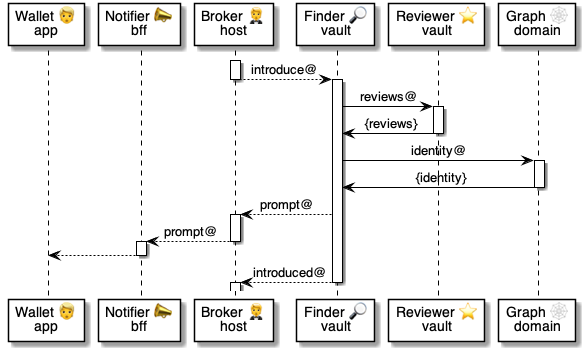
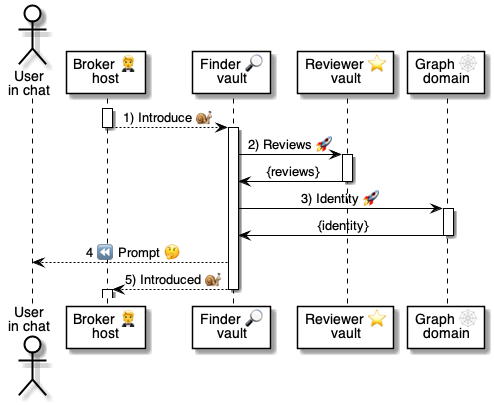
.

Changed region(s): [[0.0, 0.0, 1.0, 0.9972]]

diff --git a/4 ⚙ Solution/20 🧑🦰 UI/13 🤔 Prompts/12 ⏳ TEMP prompt.md b/4 ⚙ Solution/20 🧑🦰 UI/13 🤔 Prompts/12 ⏳ TEMP prompt.md
@@ -2,60 +2,92 @@
 
 > Part of [Non-blocking status prompts 🤔](<10 Non-blocking status.md>)
 
-
-## About
-
-- this is an info [Prompt 🤔](<01 🤔 Prompt.md>) that is automatically removed when a new prompt arrives;
-- if it contains options, then the user may click an option while it's visible.
-
-
 <br/>
 
-1. **What's an example of a [Chat 💬](<../12 💬 Chats/01 💬 Chat.md>)?**
+1. **What is a non-blocking TEMP?**
+
+    This is an [INFO ℹ prompt](<11 ℹ INFO prompt.md>) that is automatically removed when a new prompt arrives;
+    - if it contains options, then the user may click an option while it's visible.
+
+
+    ---
+    <br/>
+
+
+1. **How do TEMP emojis work?**
+   
+    |Emoji | Usage | Details
+    |-|-|-
+    |⏳ | `Host` | Similar to ℹ on [INFO ℹ](<11 ℹ INFO prompt.md>)
+    |⏳ | `Guest` | Similar to ⓘ on [INFO ℹ](<11 ℹ INFO prompt.md>)
+
+    ---
+    <br/>
+
+
+1. **What's an example in a [Chat 💬](<../12 💬 Chats/01 💬 Chat.md>)?**
+
+    Consider the following [Talker 😃](<../12 💬 Chats/03 😃 Talker.md>).
+    
+    ```yaml
+    SUCCESS|Simple temp.
+    ```
 
     | Service | Prompt | User
     | - | - | - |
-    | 
-
+    | [🤗 Host](<../12 💬 Chats/04 🤗🎭 Host role.md>) | ⏳ Simple temp.
+    | [🫥 Agent](<../24 🗄 Vaults/04 🫥🗄 Agent vault.md>) | ⏳ Simple temp.
+    | [🛠 Helper](<../24 🗄 Vaults/05 🛠👥 Helper domain.md>) | ⏳ Simple temp.
+    
+    
     ---
     <br/>
 
-2. **What are business cases?**
 
-    |Category|Use case
+2. **What are examples of TEMP?**
+
+    |Type|Example
     |-|-
-    |
-
+    | `Wait for hardware` | [Buy an item at a vending machine 🏪](<../../../3 🤝 Use Cases/02 🍲 Eat & Drink/20 🏪 Vending/11 💧 Buy water.md>)
+    | `Wait for software`| [Find a suitable bar nearby 🔎](<../../../3 🤝 Use Cases/02 🍲 Eat & Drink/30 🍸 Bars/11 🌐 Web: Find a bar.md>)
+    | `Wait for humans` | [Customers wait for take-away food 🍲](<../../../3 🤝 Use Cases/02 🍲 Eat & Drink/25 🍔 Fast food/11 🏪 Kiosk: Pay take-away.md>)
+    | `Wait for new task` | [Baristas wait for orders 🍸](<../../../3 🤝 Use Cases/02 🍲 Eat & Drink/30 🍸 Bars/31 💁♀ Barista: Serve.md>)
+    | `Wait for network` | [Curators pull street-food menus 🌭](<../../../3 🤝 Use Cases/02 🍲 Eat & Drink/50 🌭 Street food/21 🎪 Stall: Buy hot dog 🌭.md>)
+    | `Wait for pick-up`| [Wait for a ride-hailing pick-up 🙋](<../../../3 🤝 Use Cases/03 🧳 Travel/05 🧳 Travel by hailing 🙋/1 🙋 Customer @ Home 🏠/11 🏠 Request.md>) | 
+    | `Count-down to tap` | [Tap inside the car to confirm 🙋](<../../../3 🤝 Use Cases/03 🧳 Travel/05 🧳 Travel by hailing 🙋/2 🙋 Customer @ Car 🚕/22 🚕 Enter wrong car.md>)
+    | `Time to drop-off` | [Expected arrival time at drop-off 🚕](<../../../3 🤝 Use Cases/03 🧳 Travel/05 🧳 Travel by hailing 🙋/2 🙋 Customer @ Car 🚕/21 🚕 Enter right car.md>)
     ---
     <br/>
 
 
-3. **What's the content for a [Talker 😃](<../12 💬 Chats/03 😃 Talker.md>)?**
+3. **What's the format for a [Talker 😃](<../12 💬 Chats/03 😃 Talker.md>)?**
 
     ```yaml
-    
+    TEMP|<message>|<options> >> <key>:
+        Details: <details>
     ```
-
-    |Parameter|Details
-    |-|-
-    | 
     
     ---
     <br/>
 
 
-4. **What's the response in the [Prompted@Host](<../../../6 🅰 APIs/50 🤗🅰 Host/04 🧑🦰🚀🤗 Prompted.md>) method?**
+
+3. **What's the response in the [Prompted@Host](<../../../6 🅰 APIs/50 🤗🅰 Host/04 🧑🦰🚀🤗 Prompted.md>) method?**
 
     ```yaml
-    
+    Format: TEMP
+    Message: <message>
+    Options: <options>
+    Details: <details>
     ```
-
     ---
     <br/>
 
-5. **What's the Answer in the [Reply@Host](<../../../6 🅰 APIs/50 🤗🅰 Host/05 🧑🦰🐌🤗 Reply.md>) method?**
+4. **What's the Answer in the [Reply@Host](<../../../6 🅰 APIs/50 🤗🅰 Host/05 🧑🦰🐌🤗 Reply.md>) method?**
 
     ```yaml
-    
+    Answer: <selected-option> # if any
     ```
-
+    
+    ---
+    <br/>

diff --git a/4 ⚙ Solution/20 🧑🦰 UI/13 🤔 Prompts/14 ❌ FAILURE prompt.md b/4 ⚙ Solution/20 🧑🦰 UI/13 🤔 Prompts/14 ❌ FAILURE prompt.md
@@ -2,58 +2,90 @@
 
 > Part of [Non-blocking status prompts 🤔](<10 Non-blocking status.md>)
 
-## About
-
-- this is an info [Prompt 🤔](<01 🤔 Prompt.md>) that signals the user that the transaction was not successful;
-- it's typically followed by a prompt to help the user fix the problem.
-
-
 <br/>
+
+1. **What is a non-blocking FAILURE?**
+
+    This is an [INFO ℹ prompt](<11 ℹ INFO prompt.md>) that signals the user that the transaction was not successful;
+    - it's typically followed by a prompt to help the user fix the problem.
+
+    ---
+    <br/>
+
+
+1. **How do FAILURE emojis work?**
+   
+    |Emoji | Usage | Details
+    |-|-|-
+    |❌ | `Host` | Similar to ℹ on [INFO ℹ](<11 ℹ INFO prompt.md>)
+    |❌ | `Guest` | Similar to ⓘ on [INFO ℹ](<11 ℹ INFO prompt.md>)
+
+    ---
+    <br/>
 
 1. **What's an example of a [Chat 💬](<../12 💬 Chats/01 💬 Chat.md>)?**
 
+    Consider the following [Talker 😃](<../12 💬 Chats/03 😃 Talker.md>).
+    
+    ```yaml
+    FAILURE|Simple failure.
+    ```
+
     | Service | Prompt | User
     | - | - | - |
-    | 
+    | [🤗 Host](<../12 💬 Chats/04 🤗🎭 Host role.md>) | ❌ Simple failure.
+    | [🫥 Agent](<../24 🗄 Vaults/04 🫥🗄 Agent vault.md>) | ❌ Simple failure.
+    | [🛠 Helper](<../24 🗄 Vaults/05 🛠👥 Helper domain.md>) | ❌ Simple failure.
+    
 
     ---
     <br/>
 
-2. **What are business cases?**
+2. **What are usages of FAILURE?**
 
     |Category|Use case
     |-|-
-    |
+    | `Simple` | [Walk into a full restaurant 🍽](<../../../3 🤝 Use Cases/02 🍲 Eat & Drink/60 🍽 Restaurants/44 🚪 Door: Walk in full.md>)
+    ||[Recover an item from a taxi 🚕](<../../../3 🤝 Use Cases/03 🧳 Travel/04 🧳 Travel by taxi 🚕/3 🚕 Customer @ Drop-off/31. Recover item.md>)
+    ||[Hotel lift exit on wrong floor 🏨](<../../../3 🤝 Use Cases/03 🧳 Travel/08 🧳 Stay at hotels 🏨/04 🏨 Guest @ Lift 🛗/02 🛗 Exit on wrong floor.md>)
+    || [Wrong venue for a show 🎭](<../../../3 🤝 Use Cases/10 🍿 Entertainment/Go to Theaters 🎭/20 Guest @ Door/22 Wrong venue.md>)
+    | `Guest` | [Entering the wrong bus 🚎](<../../../3 🤝 Use Cases/03 🧳 Travel/02 🧳 Travel by bus 🚎/03 🚎 Traveler @ Bus/33 Unboard navigating.md>)
+    || [Withdraw cash from an ATM 🏧](<../../../3 🤝 Use Cases/05 🛠 Services/03 🏧 Withdraw at ATMs/10 Customer @ ATM/11 Withdraw cash.md>)
+    
 
     ---
     <br/>
 
 
-3. **What's the content for a [Talker 😃](<../12 💬 Chats/03 😃 Talker.md>)?**
+2. **What's the format for a [Talker 😃](<../12 💬 Chats/03 😃 Talker.md>)?**
 
     ```yaml
-    
+    FAILURE|<message>|<options> >> <key>:
+        Details: <details>
     ```
-
-    |Parameter|Details
-    |-|-
-    | 
     
     ---
     <br/>
 
 
-4. **What's the response in the [Prompted@Host](<../../../6 🅰 APIs/50 🤗🅰 Host/04 🧑🦰🚀🤗 Prompted.md>) method?**
+
+3. **What's the response in the [Prompted@Host](<../../../6 🅰 APIs/50 🤗🅰 Host/04 🧑🦰🚀🤗 Prompted.md>) method?**
 
     ```yaml
-    
+    Format: FAILURE
+    Message: <message>
+    Options: <options>
+    Details: <details>
     ```
 
     ---
     <br/>
 
-5. **What's the Answer in the [Reply@Host](<../../../6 🅰 APIs/50 🤗🅰 Host/05 🧑🦰🐌🤗 Reply.md>) method?**
+4. **What's the Answer in the [Reply@Host](<../../../6 🅰 APIs/50 🤗🅰 Host/05 🧑🦰🐌🤗 Reply.md>) method?**
 
     ```yaml
-    
+    Answer: <selected-option> # if any
     ```
+    
+    ---
+    <br/>

diff --git a/3 🤝 Use Cases/03 🧳 Travel/05 🧳 Travel by hailing 🙋/1 🙋 Customer @ Home 🏠/11 🏠 Request.md b/3 🤝 Use Cases/03 🧳 Travel/05 🧳 Travel by hailing 🙋/1 🙋 Customer @ Home 🏠/11 🏠 Request.md
@@ -14,9 +14,10 @@ How to request an immediate ride?
 | 🙋 Hailing | 😃 Any bags? [Yes, No] | > No
 | [🗓 Scheduler](<../../../../4 ⚙ Solution/30 🫥 Agents/38 🕓 User Timeline/04 🗓🗄 Scheduler agent.md>) | 🫥 Confirm ride? [Yes, No] <br/>- pick-up ~9:05 <br/>- drop-off ~9:45 <br/> - your flight is at 17:35. | > Yes
 | 💳 [Payer](<../../../../4 ⚙ Solution/30 🫥 Agents/04 💳 Payers/03 💳🎭 Payer role.md>) | 🫥 Pay $12.95 bill? 🧾 [No] <br/>- [ card ABC ] + $0.10<br/>- [ card DEF ] (free) | > card ABC
-| 🙋 Hailing | ⏳ Assigning you a driver...<br/>- [ Cancel request ]
+| 🙋 Hailing | ⏳ [Assigning you a driver...](<../../../../4 ⚙ Solution/20 🧑🦰 UI/13 🤔 Prompts/12 ⏳ TEMP prompt.md>)<br/>- [ Cancel request ]
 | 🙋 Hailing | ℹ Driver assigned: <br/>- it's Daniel <br/>- on a black Tesla, ABC123 <br/> - on arrival, tap the seat to confirm.
-| 🙋 Hailing | ⏳ Pick-up by 12:37...<br/>- [ Cancel pick-up ]
+| 🙋 Hailing | ⏳ [Pick-up by 12:37...](<../../../../4 ⚙ Solution/20 🧑🦰 UI/13 🤔 Prompts/12 ⏳ TEMP prompt.md>)<br/>- [ Cancel pick-up ]
+| 🙋 Hailing | ⏳ [Pick-up by 12:35...](<../../../../4 ⚙ Solution/20 🧑🦰 UI/13 🤔 Prompts/12 ⏳ TEMP prompt.md>)<br/>- [ Cancel pick-up ]
 | 🙋 Hailing | 📣 Daniel arrived! [ Quiet, 5... 4... ] | > Quiet
 | 🧭 [Navigator](<../../../../4 ⚙ Solution/30 🫥 Agents/07 🧭 Navigators/01 🧭🫥 Navigator agent.md>) | ⓘ The driver is at your door.
 | 🙋 Hailing | ⏳ Tap inside until 12:41...<br> - [ Say "be right there" ] <br/>- [ Say something else ] <br>- [ Cancel pick-up ]

diff --git a/5 ⏩ Flows/40 🔎⏩ Finders/01 🔎⏩🧑🦰 Introduce.md b/5 ⏩ Flows/40 🔎⏩ Finders/01 🔎⏩🧑🦰 Introduce.md
@@ -29,7 +29,6 @@
 | 1 | [🤵🐌🔎 Introduce @ Finder](<01 🔎⏩🧑🦰 Introduce.md>) | Ask to introduce a [Host 🤗](<../../4 ⚙ Solution/20 🧑🦰 UI/12 💬 Chats/04 🤗🎭 Host role.md>).
 | 2 | [🔎🚀⭐ Reviews @ Reviewer](<../../6 🅰 APIs/80 ⭐🅰 Reviewer/01 🔎🚀⭐ Reviews.md>) | Get domain reviews (may be cached).
 | 3 | [👥🚀🕸 Identity @ Graph](<../../6 🅰 APIs/45 🕸🅰 Graph/04 👥🚀🕸 Identity.md>) | Get domain identity (may be cached).
-| 4 | [🤗🐌🤵 Prompt @ Broker](<../../6 🅰 APIs/15 🤵🅰 Broker/30 🤵🅰 Chats 💬/03 🤗🐌🤵 Prompt.md>) | Inform the user.
-| 5 | [🤵🐌📣 Prompt @ Notifier](<../../6 🅰 APIs/65 📣🅰 Notifier/02 📣💬🅰 Chats/21 🤵🐌📣 Prompt.md>) | Push to the device.
-| 6 | [🔎🐌🤵 Introduced @ Broker](<../../6 🅰 APIs/15 🤵🅰 Broker/30 🤵🅰 Chats 💬/04 🔎🐌🤵 Introduced.md>) | Finish introduction.
+| 4 | [🤗⏩🧑🦰 Prompt](<../50 🤗⏩ Hosts/01 🤗⏩🧑🦰 Prompt.md>) | Inform the user.
+| 5 | [🔎🐌🤵 Introduced @ Broker](<../../6 🅰 APIs/15 🤵🅰 Broker/30 🤵🅰 Chats 💬/04 🔎🐌🤵 Introduced.md>) | Finish introduction.
 ||

diff --git a/3 🤝 Use Cases/03 🧳 Travel/05 🧳 Travel by hailing 🙋/2 🙋 Customer @ Car 🚕/21 🚕 Enter right car.md b/3 🤝 Use Cases/03 🧳 Travel/05 🧳 Travel by hailing 🙋/2 🙋 Customer @ Car 🚕/21 🚕 Enter right car.md
@@ -7,9 +7,9 @@ A user can scan/tap the NFC/QR of a raid hailing car.
 | Service | Prompt | User
 | - | - | - |
 |...
-| 🙋 Hailing | ⏳ Tap inside until 12:41... [+] | 🔆 [tap](<../../../../4 ⚙ Solution/20 🧑🦰 UI/11 🔆 Locators/01 🔆 Locator.md>) seat
+| 🙋 Hailing | ⏳ [Tap inside until 12:41... [+]](<../../../../4 ⚙ Solution/20 🧑🦰 UI/13 🤔 Prompts/12 ⏳ TEMP prompt.md>)  | 🔆 [tap](<../../../../4 ⚙ Solution/20 🧑🦰 UI/11 🔆 Locators/01 🔆 Locator.md>) seat
 | 🙋 Hailing | ✅ You're in the right car! [+]
-| 🙋 Hailing | ⏳ Drop-off at 10:31... <br/> - [ Change destination ]<br/>- [ Report emergency ]
+| 🙋 Hailing | ⏳ [Drop-off at 10:31...](<../../../../4 ⚙ Solution/20 🧑🦰 UI/13 🤔 Prompts/12 ⏳ TEMP prompt.md>) <br/> - [ Change destination ]<br/>- [ Report emergency ]
 | 🙋 Hailing | ✅ Arrived! Exit the car. [+]
 | 🙋 Hailing | 😃 How was the ride? | > ⭐⭐
 | 🙋 Hailing | 😐 What could be better? <br/>- [ ] Car <br/>- [ ] Driver  <br/>- [ ] Driving <br/>- [ ] Route | [X] Car<br/> [X] Route 

diff --git a/6 🅰 APIs/50 🤗🅰 Host/04 🧑🦰🚀🤗 Prompted.md b/6 🅰 APIs/50 🤗🅰 Host/04 🧑🦰🚀🤗 Prompted.md
@@ -53,10 +53,11 @@ Details: |
 |Top| `Format`  | string | One format supported by [Prompts 🤔](<../../4 ⚙ Solution/20 🧑🦰 UI/13 🤔 Prompts/01 🤔 Prompt.md>)
 || `Message` | string | Main message, <br/>- to display in the [Chat 💬](<../../4 ⚙ Solution/20 🧑🦰 UI/12 💬 Chats/01 💬 Chat.md>)
 || `Options` | object[]   | List of Option objects
-|| `Appendix`| uuid   | PDF or PNG appendix, <br/>- to download via [Download@Host](<06 🧑🦰🚀🤗 Download.md>)
+|| `Appendix`| uuid   | File to download via [Download@Host](<06 🧑🦰🚀🤗 Download.md>)
 || `Details` | string | Extended details in Markdown format,<br/> - typically hidden by an expand [+] sign
 |Option | `ID`          | string  | ID of the option, <br/> - for replies via [Reply@Host](<05 🧑🦰🐌🤗 Reply.md>)
 |       | `Translation` | string  | Text of the option, <br/>- to display in the [Chat 💬](<../../4 ⚙ Solution/20 🧑🦰 UI/12 💬 Chats/01 💬 Chat.md>)
 |
 
 <br/>
+

diff --git a/6 🅰 APIs/50 🤗🅰 Host/06 🧑🦰🚀🤗 Download.md b/6 🅰 APIs/50 🤗🅰 Host/06 🧑🦰🚀🤗 Download.md
@@ -50,9 +50,19 @@ DKIM: pk1
 |Object |Property|Type|Description
 |-|-|-|-
 |Top| `Name`  | string | Name of the file, for saving
-|| `Format` | enum | `PDF` `PNG`
+|| `Format` | enum | `PDF` `PNG` `JPEG`
 || `Content` | string | Bytes serialized to base64
 || `DKIM`| string | Name of the public key <br/>- in the sender's [DKIM 📨](<../../4 ⚙ Solution/40 👥 Domains/41 📨 Comms/01 📨 Domain Message.md>) <br/> - used to [stamp the file 🔏](<../../4 ⚙ Solution/40 👥 Domains/41 📨 Comms/05 👥🔏 Domain Signature.md>)
 |
 
 <br/>
+
+
+## FAQ
+
+1. **What are examples of Download usage?**
+
+    | Format | Example | 
+    |-|-
+    | `PDF` | 
+    | `PNG` | [text](<../../3 🤝 Use Cases/03 🧳 Travel/04 🧳 Travel by taxi 🚕/3 🚕 Customer @ Drop-off/31. Recover item.md>)

diff --git a/4 ⚙ Solution/20 🧑🦰 UI/12 💬 Chats/03 😃 Talker.md b/4 ⚙ Solution/20 🧑🦰 UI/12 💬 Chats/03 😃 Talker.md
@@ -90,8 +90,7 @@
        * Calls the [🛒 EAN Prompt](<../13 🤔 Prompts/01 🤔 Prompt.md>)
    * [`ℹ INFO`](<../13 🤔 Prompts/11 ℹ INFO prompt.md>)
    * [`⏳ TEMP`](<../13 🤔 Prompts/12 ⏳ TEMP prompt.md>)
-   * `SUCCESS|<message>|<options>`
-       * Calls the [✅ SUCCESS Prompt 🤔](<../13 🤔 Prompts/01 🤔 Prompt.md>)
+   * [`✅ SUCCESS`](<../13 🤔 Prompts/13 ✅ SUCCESS prompt.md>)
    * `FAILURE|<message>|<options>`
        * Calls the [❌ FAILURE Prompt 🤔](<../13 🤔 Prompts/01 🤔 Prompt.md>)
    * `INT|<message> >> <key>`	

diff --git a/4 ⚙ Solution/20 🧑🦰 UI/13 🤔 Prompts/13 ✅ SUCCESS prompt.md b/4 ⚙ Solution/20 🧑🦰 UI/13 🤔 Prompts/13 ✅ SUCCESS prompt.md
@@ -27,7 +27,7 @@
     Consider the following [Talker 😃](<../12 💬 Chats/03 😃 Talker.md>).
     
     ```yaml
-    INFO|Simple info.
+    SUCCESS|Simple success.
     ```
 
     | Service | Prompt | User
@@ -76,6 +76,8 @@
     Details: <details>
     ```
 
+    ---
+    <br/>
 
 4. **What's the Answer in the [Reply@Host](<../../../6 🅰 APIs/50 🤗🅰 Host/05 🧑🦰🐌🤗 Reply.md>) method?**
 
@@ -83,4 +85,5 @@
     Answer: <selected-option> # if any
     ```
     
-
+    ---
+    <br/>

diff --git a/4 ⚙ Solution/20 🧑🦰 UI/13 🤔 Prompts/01 🤔 Prompt.md b/4 ⚙ Solution/20 🧑🦰 UI/13 🤔 Prompts/01 🤔 Prompt.md
@@ -72,7 +72,7 @@
     |-|-|:-:|:-:
     | `Status`  | [`INFO`](<11 ℹ INFO prompt.md>) | ℹ | ⓘ
     |           | [`SUCCESS`](<13 ✅ SUCCESS prompt.md>) | ✅ | ☑
-    |           | [`FAILURE`](<14 ❌ FAILURE prompt.md>) | ❌ | ✖
+    |           | [`FAILURE`](<14 ❌ FAILURE prompt.md>) | ❌ | ❌     |
     |           | [`TEMP`](<12 ⏳ TEMP prompt.md>) | ⏳ | ⏳
     | `Input`   | [`TEXT`](<31 🔠 TEXT prompt.md>) | 💬 | 💭
     |           | (others) | 😃 | 🫥 | 

diff --git a/4 ⚙ Solution/20 🧑🦰 UI/13 🤔 Prompts/11 ℹ INFO prompt.md b/4 ⚙ Solution/20 🧑🦰 UI/13 🤔 Prompts/11 ℹ INFO prompt.md
@@ -112,3 +112,6 @@
     ```yaml
     Answer: <selected-option> # if any
     ```
+
+    ---
+    <br/>
